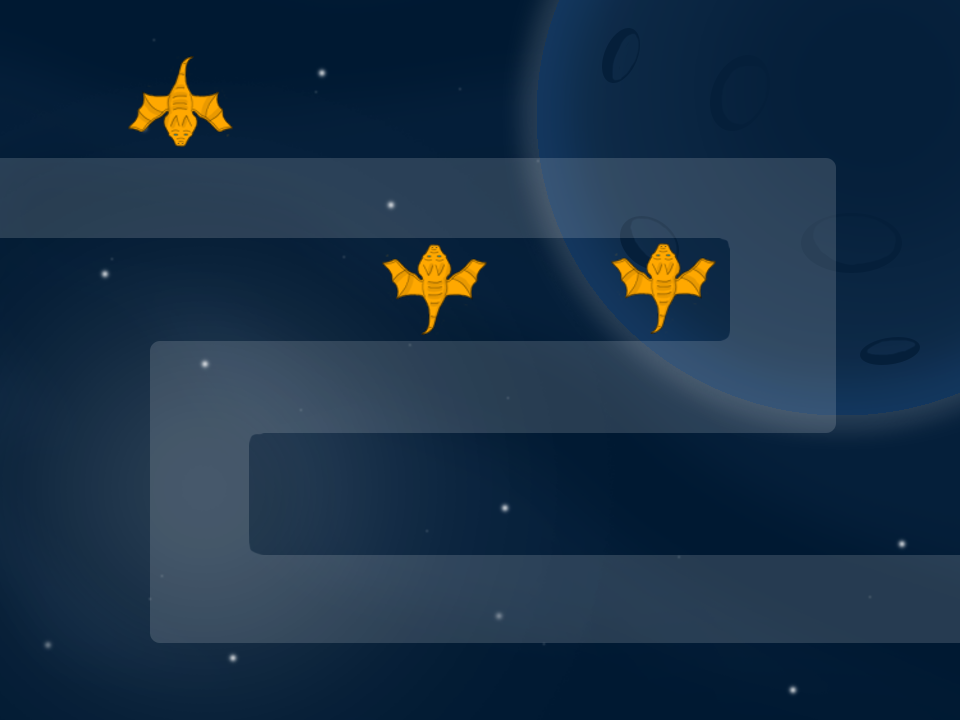
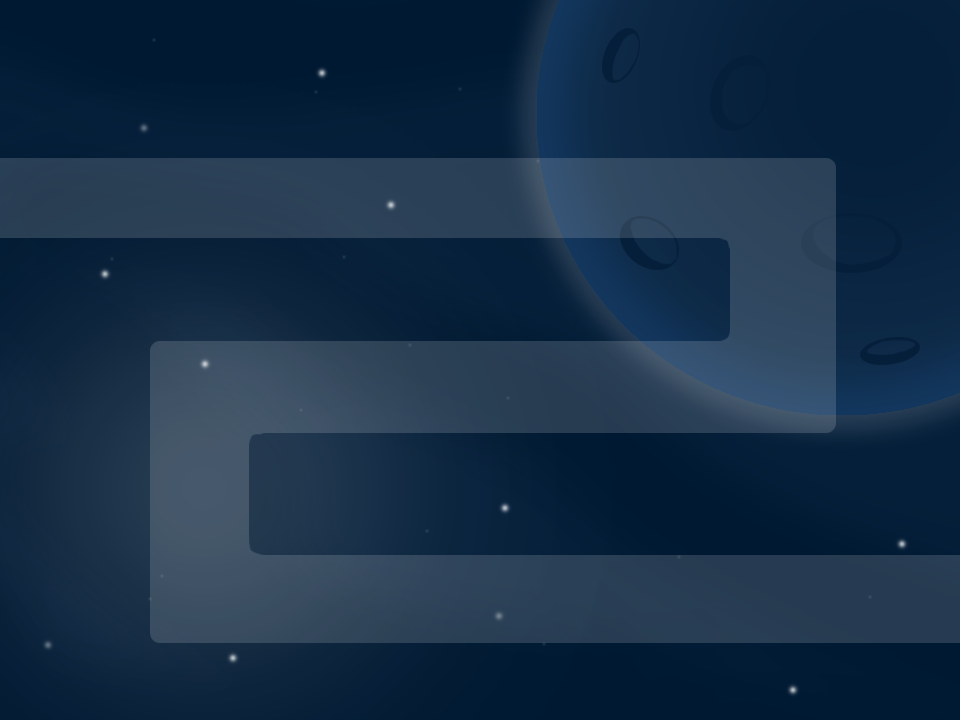
Added so you can build towers on the map, also changed and added some pictures

Changed region(s): [[0.625, 0.3361, 0.75, 0.4583], [0.125, 0.0917, 0.25, 0.2139], [0.4062, 0.3361, 0.5, 0.4583]]

diff --git a/teedee/src/com/me/teedee/screens/MapScreen.java b/teedee/src/com/me/teedee/screens/MapScreen.java
@@ -5,23 +5,24 @@ import java.util.List;
 
 import com.badlogic.gdx.Gdx;
 import com.badlogic.gdx.Screen;
+import com.badlogic.gdx.graphics.FPSLogger;
 import com.badlogic.gdx.graphics.GL20;
 import com.badlogic.gdx.graphics.Texture;
 import com.badlogic.gdx.graphics.g2d.Sprite;
-import com.badlogic.gdx.scenes.scene2d.Group;
+import com.badlogic.gdx.scenes.scene2d.InputEvent;
 import com.badlogic.gdx.scenes.scene2d.Stage;
 import com.badlogic.gdx.scenes.scene2d.ui.Image;
-import com.badlogic.gdx.scenes.scene2d.ui.Label;
 import com.badlogic.gdx.scenes.scene2d.ui.Table;
+import com.badlogic.gdx.scenes.scene2d.utils.ClickListener;
 import com.badlogic.gdx.scenes.scene2d.utils.SpriteDrawable;
 import com.badlogic.gdx.utils.viewport.ExtendViewport;
+import com.me.teedee.AbstractEnemy;
 import com.me.teedee.BasicTower;
 import com.me.teedee.Bullet;
 import com.me.teedee.Map;
 import com.me.teedee.Path;
 import com.me.teedee.Player;
 import com.me.teedee.Position;
-import com.me.teedee.Tower;
 import com.me.teedee.Wave;
 
 
@@ -35,16 +36,17 @@ public class MapScreen implements Screen {
 	private Map m;
 	private Stage hud;
 	private Table table;
-	private Group mapGroup;
-	private Group hudGroup;
 
 	//The bullet should NOT be created here! Only for test purposes 
 	Bullet bullet = new Bullet(50,320,100,0,2f,new Texture("img/RedBullet.png"));
 
-	int k = 0;
-
 	private List<EnemyView> enemyList = new ArrayList<EnemyView>();
-	int i = 0;
+	private List<TowerView> towerList = new ArrayList<TowerView>();
+	private int towerIndex = 1;			// TODO change this shit
+	
+	FPSLogger fps = new FPSLogger();		// TODO debug
+	
+	Image tmp;
 
 
 	public MapScreen() {
@@ -77,29 +79,31 @@ public class MapScreen implements Screen {
 		//Building a BasicTower at (100;100)
 		m.buildTower(new BasicTower(new Position(10,10),wave0.getEnemies()), new Position(10f,10f));
 
-
-
 		for(int i = 0; i < m.getEnemies().size(); i++) {
 			enemyList.add(new EnemyView(new Sprite(new Texture("img/firstEnemy.png")), m.getEnemies().get(i)));
 		}
 		
-
 	}
 
 	@Override
 	public void render(float delta) {
+		//fps.log();		// TODO debug
 		Gdx.gl.glClearColor(0, 0, 0, 1);
 		Gdx.gl.glClear(GL20.GL_COLOR_BUFFER_BIT);
-
+		
 		m.update();
 
 		hud.act(delta);
 		hud.draw();
 		Table.drawDebug(hud);
 		hud.getSpriteBatch().begin();
+		if(tmp != null) {
+			tmp.setPosition(Gdx.input.getX()-45, Gdx.graphics.getHeight()-Gdx.input.getY()-40);
+		}
 
 		for(int i = 0; i < enemyList.size(); i++) {
 			enemyList.get(i).draw(hud.getSpriteBatch());
+
 
 			//			ShapeRenderer shapeRenderer = new ShapeRenderer();
 			//			shapeRenderer.setProjectionMatrix(camera.combined);
@@ -110,22 +114,17 @@ public class MapScreen implements Screen {
 			bullet.draw(hud.getSpriteBatch());
 
 		}
-
-		//		if(i%60 == 0) {
-		//			if(k < enemyList.size()) {
-		//				k++;
-		//			}
-		//		}
+		
+		for(int i = 0; i< towerList.size(); i++) {
+			towerList.get(i).draw(hud.getSpriteBatch());
+		}
 		
 		hud.getSpriteBatch().end();
-
-		i++;
 	}
 
 	@Override
 	public void resize(int width, int height) {
 		hud.getViewport().update(width, height, true);
-
 	}
 
 	@Override
@@ -134,39 +133,63 @@ public class MapScreen implements Screen {
 		hud.setViewport(new ExtendViewport(Gdx.graphics.getWidth(), Gdx.graphics.getHeight()));
 		Gdx.input.setInputProcessor(hud);
 
-		hudGroup = new Group();
-		mapGroup = new Group();
-
 		Image mapImg = new Image(new Texture("map/awesome_map.png"));
-		mapGroup.addActor(mapImg);
+		mapImg.addListener(new ClickListener(){
+			@Override
+			public void clicked(InputEvent event, float x, float y) {
+				System.out.println("" + Gdx.input.getX());
+				System.out.println("" + Gdx.input.getY());
+				System.out.println();
+			}
+		});
 		
-		Image buildImg = new Image(new Texture("img/buildTest.png"));
+		//Image buildImg = new Image(new Texture("img/buildTest.png"));
 		//img.setFillParent(true);
 		
 		Table guiTable = new Table();
 		Table towerInfoTable = new Table();
 		
+		Image tw = new Image(new Texture("img/firstDragon.png"));
+		tw.addListener(new ClickListener() {
+			@Override
+			public void clicked(InputEvent event, float x, float y) {
+				System.out.println("clicked");
+				tmp = new Image(new Texture("img/firstDragon.png"));
+				tmp.setPosition(Gdx.input.getX()-45, Gdx.graphics.getHeight()-Gdx.input.getY()-40);
+				tmp.addListener(new ClickListener() {
+					@Override
+					public void clicked(InputEvent event, float x, float y) {
+						tmp = null;		// TODO the image still exists under the tower
+						System.out.println(Gdx.input.getX()+" "+(Gdx.graphics.getHeight()-Gdx.input.getY()-15));
+						int tmpX = Gdx.input.getX()-45;
+						int tmpY = Gdx.graphics.getHeight()-Gdx.input.getY()-40;
+						m.buildTower(new BasicTower(new Position(tmpX, tmpY), (ArrayList<AbstractEnemy>) m.getEnemies()), new Position(tmpX, tmpY));
+						towerList.add(new TowerView(new Sprite(new Texture("img/firstDragon.png")), m.getTowers().get(towerIndex)));
+						System.out.println(m.getTowers().size()+"");
+						towerIndex++;
+					}
+				});
+				hud.addActor(tmp);
+			}
+		});
+		
 		towerInfoTable.setBackground(new SpriteDrawable(new Sprite(new Texture("img/buildTest.png"))));
-		towerInfoTable.add(new Image(new Texture("img/twitterEnemy.png"))).top();
-		towerInfoTable.add(new Image(new Texture("img/twitterEnemy.png")));
-		towerInfoTable.add(new Image(new Texture("img/twitterEnemy.png")));
-		towerInfoTable.add(new Image(new Texture("img/twitterEnemy.png"))).row();
-		towerInfoTable.add(new Image(new Texture("img/twitterEnemy.png")));
-		towerInfoTable.add(new Image(new Texture("img/twitterEnemy.png")));
-		towerInfoTable.add(new Image(new Texture("img/twitterEnemy.png")));
-		towerInfoTable.add(new Image(new Texture("img/twitterEnemy.png")));
+		towerInfoTable.add(new Image(new Texture("img/firstDragon.png"))).top();
+		towerInfoTable.add(new Image(new Texture("img/firstDragon.png")));
+		towerInfoTable.add(new Image(new Texture("img/firstDragon.png"))).row();
+		towerInfoTable.add(new Image(new Texture("img/firstDragon.png")));
+		towerInfoTable.add(new Image(new Texture("img/firstDragon.png")));
+		towerInfoTable.add(new Image(new Texture("img/firstDragon.png")));
 		
 		Table buildTable = new Table();
 		//buildTable.add(buildImg).height(Gdx.graphics.getHeight());
 		buildTable.setBackground(new SpriteDrawable(new Sprite(new Texture("img/buildTest.png"))));
-		buildTable.add(new Image(new Texture("img/twitterEnemy.png"))).top();
-		buildTable.add(new Image(new Texture("img/twitterEnemy.png")));
-		buildTable.add(new Image(new Texture("img/twitterEnemy.png")));
-		buildTable.add(new Image(new Texture("img/twitterEnemy.png"))).row();
-		buildTable.add(new Image(new Texture("img/twitterEnemy.png")));
-		buildTable.add(new Image(new Texture("img/twitterEnemy.png")));
-		buildTable.add(new Image(new Texture("img/twitterEnemy.png")));
-		buildTable.add(new Image(new Texture("img/twitterEnemy.png")));
+		buildTable.add(tw).top();
+		buildTable.add(new Image(new Texture("img/firstDragon.png")));
+		buildTable.add(new Image(new Texture("img/firstDragon.png"))).row();
+		buildTable.add(new Image(new Texture("img/firstDragon.png")));
+		buildTable.add(new Image(new Texture("img/firstDragon.png")));
+		buildTable.add(new Image(new Texture("img/firstDragon.png")));
 		buildTable.debug();
 		//table.setHeight(Gdx.graphics.getHeight());
 		

diff --git a/teedee/src/com/me/teedee/screens/TowerView.java b/teedee/src/com/me/teedee/screens/TowerView.java
@@ -10,11 +10,13 @@ public class TowerView extends Sprite {
 	public TowerView(Sprite sprite, Tower tower){
 		super(sprite);
 		this.tower = tower;
+		System.out.println(tower.getPosition().getX()+" "+tower.getPosition().getY());
 		setX(tower.getPosition().getX());
 		setY(tower.getPosition().getY());
 	}
 	
 	public void draw(Batch batch){
+		super.draw(batch);
 		if(tower.isShooting()){
 			//TODO
 		}
